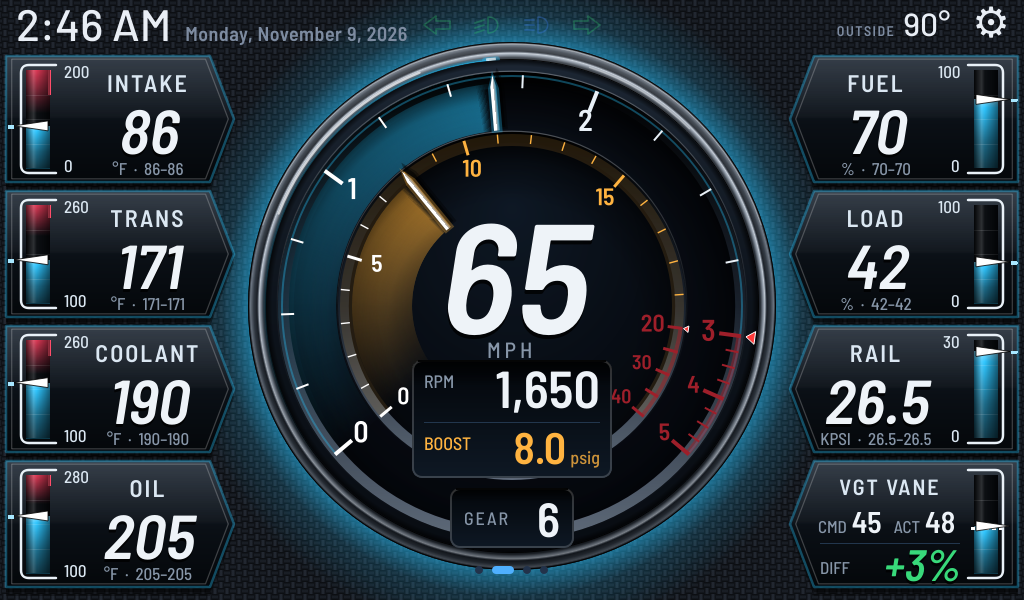
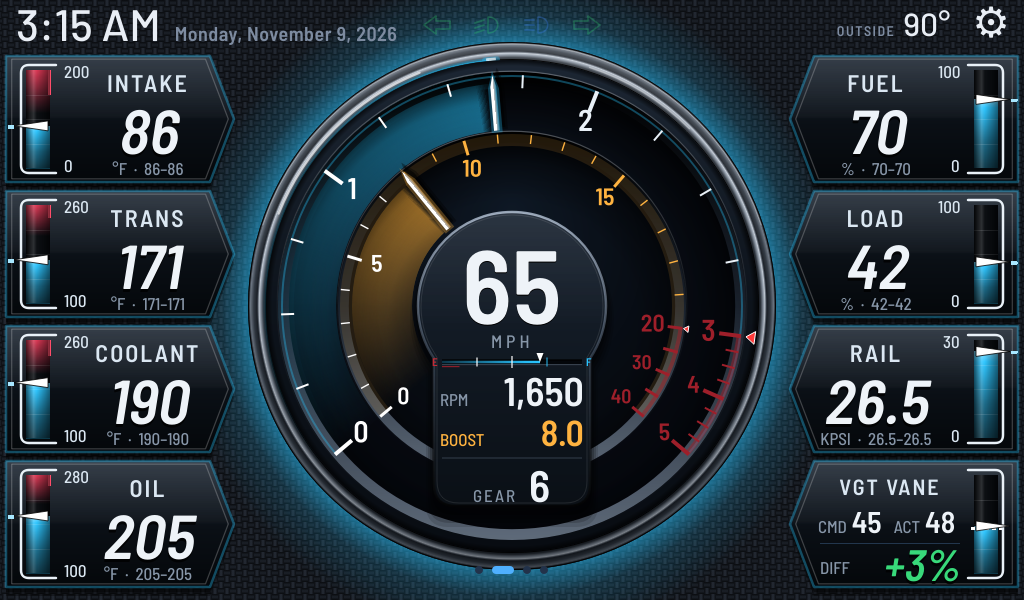
Towing page: P1 raised center piece (speed, fuel groove, RPM, boost, gear); L4 fuel groove in the theme accent with quarter marks, red when low
Claude-Session: https://claude.ai/code/session_01NB1fkpFcGY28RY4JZ8NWPC

Changed region(s): [[0.4062, 0.33, 0.5938, 0.93], [0.0, 0.0, 0.4062, 0.09]]

diff --git a/gaugeworks/qml/TowGauge.qml b/gaugeworks/qml/TowGauge.qml
@@ -16,6 +16,8 @@ Item {
     property var box1Cfg: ({})
     property var box2Cfg: ({})
     property string gearKey: ""
+    property var fuelCfg: ({})
+    property bool pod: true           // P1: speed, fuel, RPM, boost and gear on one raised piece (JP's pick 2026-11-09)
     property color acc: "#29c4ff"
     property color acc2: "#ffb340"
     property bool blinkOn: true
@@ -825,6 +827,7 @@ Item {
     // ---- big center reading (speed)
     readonly property bool cOk: ok(centerCfg.key)
     Item {
+        visible: !g.pod
         anchors.horizontalCenter: parent.horizontalCenter; y: g.cy - 128
         width: spd.implicitWidth; height: spd.implicitHeight
         transform: Matrix4x4 { matrix: Qt.matrix4x4(1, -0.158, 0, 0.158 * spd.height * 0.8, 0, 1, 0, 0, 0, 0, 1, 0, 0, 0, 0, 1) }
@@ -832,7 +835,7 @@ Item {
         Text { id: spd; text: g.cOk ? g.v(g.centerCfg.key).toFixed(g.centerCfg.decimals || 0) : "--"
                color: "#eef3f8"; font.family: "Barlow Semi Condensed SemiBold"; font.pixelSize: 156 }
     }
-    Text { anchors.horizontalCenter: parent.horizontalCenter; y: g.cy + 30
+    Text { visible: !g.pod; anchors.horizontalCenter: parent.horizontalCenter; y: g.cy + 30
            text: (g.centerCfg.units || "").toUpperCase(); color: "#8796a8"
            font.family: "Barlow Semi Condensed Medium"; font.pixelSize: 22; font.letterSpacing: 4 }
 
@@ -849,6 +852,7 @@ Item {
     readonly property bool b2Hot: ok(box2Cfg.key) && v(box2Cfg.key) >= lim(box2Cfg)
     Recess {
         id: box
+        visible: !g.pod
         x: g.cx - 100; y: g.cy + 54; width: 200; height: 118
         Text { x: 12; y: 10; text: (g.box1Cfg.label || "").toUpperCase(); color: "#8796a8"
                font.family: "Barlow Semi Condensed Medium"; font.pixelSize: 18 }
@@ -870,12 +874,117 @@ Item {
     }
     Recess {
         x: g.cx - 62; y: g.cy + 182; width: 124; height: 60
-        visible: g.gearKey !== ""
+        visible: g.gearKey !== "" && !g.pod
         Text { x: 14; anchors.verticalCenter: parent.verticalCenter; text: "GEAR"; color: "#8796a8"
                font.family: "Barlow Semi Condensed Medium"; font.pixelSize: 18; font.letterSpacing: 2 }
         Text { anchors.right: parent.right; anchors.rightMargin: 14; anchors.verticalCenter: parent.verticalCenter
                text: g.ok(g.gearKey) ? g.v(g.gearKey).toFixed(0) : "–"; color: "#eef3f8"
                font.family: "Barlow Semi Condensed SemiBold"; font.pixelSize: 48 }
+    }
+
+    // ---- P1 raised piece: speed puck with a tongue below for fuel, RPM, boost and gear
+    readonly property real podR: 94     // puck radius
+    readonly property real podW: 78     // half-width of the tongue
+    readonly property real podBot: 200  // tongue bottom, below the center
+    Canvas {
+        id: podArt
+        anchors.fill: parent
+        visible: g.pod
+        property var deps: [g.pod, g.width]
+        onDepsChanged: requestPaint()
+        onPaint: {
+            var c = getContext("2d"); c.reset(); if (!g.pod) return
+            var cx = g.cx, cy = g.cy
+            function shape(dy, grow) {
+                var R = g.podR + grow, w = g.podW + grow, bot = cy + g.podBot + grow, a = Math.asin(w / R)
+                c.beginPath()
+                c.arc(cx, cy + dy, R, Math.PI / 2 + a, Math.PI * 2.5 - a, false)
+                c.lineTo(cx + w, bot - 22 + dy); c.quadraticCurveTo(cx + w, bot + dy, cx + w - 22, bot + dy)
+                c.lineTo(cx - w + 22, bot + dy); c.quadraticCurveTo(cx - w, bot + dy, cx - w, bot - 22 + dy)
+                c.closePath()
+            }
+            for (var k = 4; k >= 1; k--) { shape(5 + k * 2, k * 2); c.fillStyle = "rgba(0,0,0," + (0.12 + 0.05 * (4 - k)) + ")"; c.fill() }
+            shape(0, 0)
+            var bg = c.createLinearGradient(0, cy - 120, 0, cy + 210)
+            bg.addColorStop(0, "#1f2a38"); bg.addColorStop(0.45, "#121a24"); bg.addColorStop(1, "#0a0f15")
+            c.fillStyle = bg; c.fill()
+            shape(0, 0); c.lineWidth = 2.5
+            var eg = c.createLinearGradient(0, cy - 120, 0, cy + 210)
+            eg.addColorStop(0, "rgba(220,235,255,0.75)"); eg.addColorStop(0.5, "rgba(120,140,165,0.35)"); eg.addColorStop(1, "rgba(0,0,0,0.9)")
+            c.strokeStyle = eg; c.stroke()
+            shape(0, -3); c.lineWidth = 1; c.strokeStyle = "rgba(255,255,255,0.10)"; c.stroke()
+            c.save(); shape(0, 0); c.clip()
+            var sh = c.createLinearGradient(0, cy - 120, 0, cy + 20)
+            sh.addColorStop(0, "rgba(255,255,255,0.08)"); sh.addColorStop(1, "rgba(255,255,255,0)")
+            c.fillStyle = sh; c.fillRect(0, 0, g.width, g.height); c.restore()
+            c.strokeStyle = "rgba(120,140,165,0.35)"; c.lineWidth = 1   // divider above the gear
+            c.beginPath(); c.moveTo(cx - 70, cy + 152); c.lineTo(cx + 70, cy + 152); c.stroke()
+        }
+    }
+    // fuel: a groove across the top of the RPM row, filling E -> F in the theme accent, red at 1/8 and below
+    readonly property bool fOk: ok(fuelCfg.key)
+    readonly property real fFrac: fOk ? Math.max(0, Math.min(1, (v(fuelCfg.key) - (fuelCfg.min || 0)) / (((fuelCfg.max || 100) - (fuelCfg.min || 0)) || 1))) : 0
+    readonly property bool fLow: fOk && fFrac <= 0.125
+    Canvas {
+        anchors.fill: parent
+        visible: g.pod && !!g.fuelCfg.key
+        property var deps: [g.fFrac, g.fOk, g.acc, g.pod]
+        onDepsChanged: requestPaint()
+        onPaint: {
+            var c = getContext("2d"); c.reset(); if (!g.pod) return
+            var x0 = g.cx - 70, x1 = g.cx + 70, y = g.cy + 56, w = x1 - x0, f = g.fFrac, xf = x0 + w * f
+            var col = g.acc, fc = g.fLow ? Qt.rgba(1, 0.23, 0.23, 1) : col
+            c.fillStyle = "#03060a"; c.fillRect(x0, y - 2.5, w, 5)                    // groove floor
+            c.fillStyle = "rgba(0,0,0,0.9)"; c.fillRect(x0, y - 2.5, w, 1.2)         // shaded upper wall
+            c.fillStyle = "rgba(170,190,215,0.35)"; c.fillRect(x0, y + 2.2, w, 0.9)  // lit lower lip
+            if (g.fOk && f > 0) {
+                var gr = c.createLinearGradient(x0, 0, xf, 0)
+                gr.addColorStop(0, Qt.rgba(fc.r, fc.g, fc.b, 0.25)); gr.addColorStop(0.85, Qt.rgba(fc.r, fc.g, fc.b, 0.95)); gr.addColorStop(1, Qt.rgba(fc.r, fc.g, fc.b, 1))
+                c.fillStyle = gr; c.fillRect(x0, y - 1.25, xf - x0, 2.5)
+            }
+            c.fillStyle = "rgba(158,31,42,0.85)"; c.fillRect(x0, y + 4, w * 0.125, 1.2)   // low zone
+            for (var k = 1; k < 4; k++) {   // 1/4, 1/2, 3/4 marks: white once passed
+                var tx = x0 + w * k / 4, passed = g.fOk && tx <= xf
+                c.fillStyle = passed ? "#ffffff" : Qt.rgba(col.r, col.g, col.b, 0.8); c.fillRect(tx - 0.6, y - (k === 2 ? 6 : 4.5), 1.2, k === 2 ? 12 : 9)
+            }
+            if (g.fOk) {   // level marker: small white blade pointing down onto the groove
+                c.fillStyle = "rgba(0,0,0,0.6)"; c.beginPath(); c.moveTo(xf - 2.5, y - 7.5); c.lineTo(xf + 4.5, y - 7.5); c.lineTo(xf + 1, y + 1.5); c.fill()
+                c.fillStyle = g.fLow ? "#ff8a8a" : "#ffffff"; c.beginPath(); c.moveTo(xf - 3.5, y - 9); c.lineTo(xf + 3.5, y - 9); c.lineTo(xf, y); c.fill()
+            }
+            c.font = "11px 'Barlow Semi Condensed SemiBold'"; c.textBaseline = "middle"
+            c.textAlign = "right"; c.fillStyle = "#c42a35"; c.fillText("E", x0 - 4, y)
+            c.textAlign = "left"; c.fillStyle = col.toString(); c.fillText("F", x1 + 4, y)
+        }
+    }
+    Item {
+        anchors.fill: parent
+        visible: g.pod
+        Text { anchors.horizontalCenter: parent.horizontalCenter; y: g.cy - 86
+               text: g.cOk ? g.v(g.centerCfg.key).toFixed(g.centerCfg.decimals || 0) : "--"; color: "#eef3f8"
+               font.family: "Barlow Semi Condensed SemiBold"; font.pixelSize: 104
+               style: Text.Raised; styleColor: "#000000" }
+        Text { anchors.horizontalCenter: parent.horizontalCenter; y: g.cy + 24
+               text: (g.centerCfg.units || "").toUpperCase(); color: "#8796a8"
+               font.family: "Barlow Semi Condensed Medium"; font.pixelSize: 18; font.letterSpacing: 4 }
+        Row { x: g.cx - 72; y: g.cy + 60; width: 144
+              Text { width: 54; text: (g.box1Cfg.label || "").toUpperCase(); color: "#8796a8"
+                     font.family: "Barlow Semi Condensed Medium"; font.pixelSize: 17; anchors.baseline: pr.baseline }
+              Text { id: pr; width: 90; horizontalAlignment: Text.AlignRight
+                     text: g.ok(g.box1Cfg.key) ? g.fmtBox(g.box1Cfg, g.v(g.box1Cfg.key)) : "--"
+                     color: g.b1Hot ? (g.blinkOn ? "#ff3b3b" : "#5a1a20") : "#eef3f8"
+                     font.family: "Barlow Semi Condensed SemiBold"; font.pixelSize: 40 } }
+        Row { x: g.cx - 72; y: g.cy + 104; width: 144
+              Text { width: 54; text: (g.box2Cfg.label || "").toUpperCase(); color: g.acc2
+                     font.family: "Barlow Semi Condensed Medium"; font.pixelSize: 17; anchors.baseline: pb.baseline }
+              Text { id: pb; width: 90; horizontalAlignment: Text.AlignRight
+                     text: g.ok(g.box2Cfg.key) ? g.fmtBox(g.box2Cfg, g.v(g.box2Cfg.key)) : "--"
+                     color: g.b2Hot ? (g.blinkOn ? "#ff3b3b" : "#5a1a20") : g.acc2
+                     font.family: "Barlow Semi Condensed SemiBold"; font.pixelSize: 36 } }
+        Row { anchors.horizontalCenter: parent.horizontalCenter; y: g.cy + 152; spacing: 12; visible: g.gearKey !== ""
+              Text { text: "GEAR"; color: "#8796a8"; font.family: "Barlow Semi Condensed Medium"; font.pixelSize: 17
+                     font.letterSpacing: 2; anchors.baseline: pg.baseline }
+              Text { id: pg; text: g.ok(g.gearKey) ? g.v(g.gearKey).toFixed(0) : "–"; color: "#eef3f8"
+                     font.family: "Barlow Semi Condensed SemiBold"; font.pixelSize: 44 } }
     }
 
     // press and hold: center number, inner scale, outer scale, or a box row
@@ -885,7 +994,10 @@ Item {
         onClicked: function(m) { if (backend.editMode) pick(m) }
         onPressAndHold: function(m) { pick(m) }
         function pick(m) {
-            if (m.x >= box.x && m.x <= box.x + box.width && m.y >= box.y && m.y <= box.y + box.height) {
+            if (g.pod && Math.abs(m.x - g.cx) <= g.podW && m.y >= g.cy + 48 && m.y <= g.cy + g.podBot) {
+                g.held(m.y < g.cy + 64 && g.fuelCfg.key ? "fuel" : m.y < g.cy + 104 ? "box1" : "box2"); return
+            }
+            if (!g.pod && m.x >= box.x && m.x <= box.x + box.width && m.y >= box.y && m.y <= box.y + box.height) {
                 g.held(m.y < box.y + box.height / 2 ? "box1" : "box2"); return
             }
             var d = Math.sqrt((m.x - g.cx) * (m.x - g.cx) + (m.y - g.cy) * (m.y - g.cy))

diff --git a/gaugeworks/qml/PageTowing.qml b/gaugeworks/qml/PageTowing.qml
@@ -49,7 +49,7 @@ Item {
     TowGauge {
         x: 512 - width / 2; y: 306 - height / 2
         ringCfg: p.sl.ring || ({}); innerCfg: p.sl.inner || ({}); centerCfg: p.sl.center || ({})
-        box1Cfg: p.sl.box1 || ({}); box2Cfg: p.sl.box2 || ({})
+        box1Cfg: p.sl.box1 || ({}); box2Cfg: p.sl.box2 || ({}); fuelCfg: p.sl.fuel || ({})
         gearKey: p.gearKey; acc: p.acc; acc2: p.acc2; blinkOn: p.blinkOn
         onHeld: function(slot) { p.pick(slot, (p.sl[slot] || {}).key || "") }
     }

diff --git a/docs/decisions.md b/docs/decisions.md
@@ -326,3 +326,11 @@ at startup. No new MQTT input. `jpcan run --sim --scenario <name>` works too.
 The SIMULATOR badge names the scenario. Also fixed: the sim put trans temp in
 the coolant byte of PID 67, and the Truck/Simulator buttons never showed which
 one was active.
+- Center readings on one raised piece (P1, 2026-11-09): a speed puck with a
+  tongue below holding a fuel groove, RPM, boost and gear. The gear no longer
+  sits on the bezel. The piece has a drop shadow, a lit top edge and a dark
+  bottom edge. Fuel (slot `fuel`, default `fuel_level`) is a groove across the
+  top of the RPM row: it fills E to F in the theme's main accent, has 1/4, 1/2
+  and 3/4 marks that turn white once passed, and turns red at 1/8 and below.
+  In edit mode, a tap on the puck, groove, RPM row or boost row opens that slot.
+  Lockup and tow/haul icons were tried and dropped for now.
